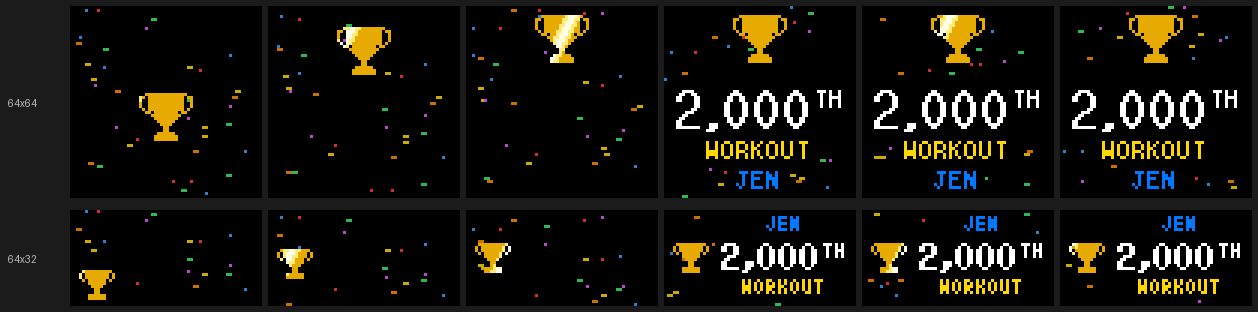
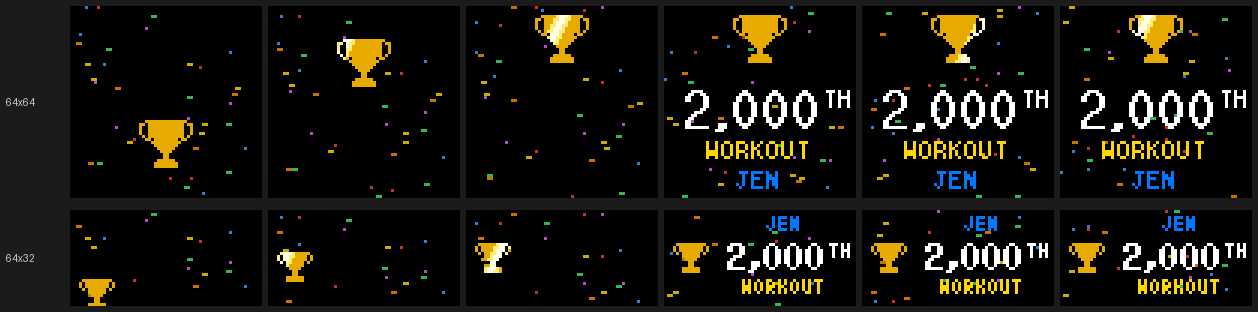
Celebration: long names on 64x32, centre 600TH on its digits, gold count
The 64x32 celebration left off a name too wide for the column beside the
trophy (a 14-letter Peloton username); it now spans the panel above it.
Numbers with a raised TH centre on the digits plus half the TH. The 64x32
countdown's count is gold. scripts/render_celebration.py redraws the
README's celebration screenshot.

diff --git a/tests/test_celebration.py b/tests/test_celebration.py
@@ -132,6 +132,16 @@ def test_number_always_fits_inside_the_panel(height, number):
         assert get_text_width(loaded_fonts['big'], ordinal(number)) <= 62
 
 
+@pytest.mark.parametrize('name', ['xxjclarksterxx', 'ABCDEFGHIJKLMNO'])
+def test_32_row_name_too_wide_beside_the_trophy_spans_the_panel_above_it(name):
+    # Regression: a Peloton username of 12-15 letters used to be left off on 32 rows.
+    image = _render(32, INTRO_SECONDS + 0.1, {**STATE, 'subtitle': name})
+    blue = _text_box(image, BLUE)
+    trophy_top = min(y for _, y in _lit(image, TROPHY_GOLD))
+    assert blue[0] >= 0 and blue[2] <= 63 and blue[3] < trophy_top
+    assert blue[3] < _text_box(image, WHITE)[1]
+
+
 @pytest.mark.parametrize('height', [32, 64])
 def test_a_name_too_long_to_fit_is_left_off(height):
     image = _render(height, INTRO_SECONDS + 0.1, {**STATE, 'subtitle': 'Christopher Longname-Smith'})
@@ -270,6 +280,37 @@ def test_ordinal_ending_is_small_and_raised_to_the_top_of_the_digits(height, num
     assert min(suffix_rows) == min(digit_rows) and max(suffix_rows) < max(digit_rows) - 2
 
 
+@pytest.mark.parametrize('height, number, left', [(64, 600, 0), (64, 2000, 0), (32, 600, TEXT_LEFT_32),
+                                                  (32, 21, TEXT_LEFT_32)])
+def test_the_number_is_centred_on_its_digits_plus_half_the_ending(height, number, left):
+    # Joel, 2026-11-14: centring 600TH as one piece set the digits off to the left, and centring the
+    # digits alone crowded the TH against the right edge.
+    from display.ui.celebration_screen import ordinal_line
+    initialize_fonts(height)
+    fonts = [loaded_fonts['big'], loaded_fonts['countdown']]
+    parts = ordinal_line(number, fonts, loaded_fonts['info'], 30, (1, 1, 1), left, 64)
+    digits_left = parts[0][1]
+    digits_right = max(x + get_text_width(font, text) for font, x, _, _, text in parts[:-1])
+    suffix_font, _, _, _, suffix = parts[-1]
+    centred_right = digits_right + (1 + get_text_width(suffix_font, suffix)) // 2
+    assert abs((digits_left + centred_right) - (left + 64)) <= 1
+
+
+@pytest.mark.parametrize('height, number, left', [(64, 2000, 0), (64, 10000, 0), (32, 2000, TEXT_LEFT_32),
+                                                  (32, 10000, TEXT_LEFT_32), (32, 123456, TEXT_LEFT_32)])
+def test_a_wide_number_moves_left_only_enough_to_keep_its_ending_on(height, number, left):
+    from display.ui.celebration_screen import ordinal_line
+    initialize_fonts(height)
+    fonts = [loaded_fonts['big'], loaded_fonts['countdown']]
+    parts = ordinal_line(number, fonts, loaded_fonts['info'], 30, (1, 1, 1), left, 64)
+    font, x, _, _, text = parts[-1]
+    end = x + get_text_width(font, text)
+    digits_right = max(px + get_text_width(f, s) for f, px, _, _, s in parts[:-1])
+    centred = abs((parts[0][1] + digits_right + (1 + get_text_width(font, text)) // 2) - (left + 64)) <= 1
+    assert parts[0][1] >= left and end <= 64
+    assert centred or end == 64 or parts[0][1] == left
+
+
 def test_ordinal_that_fits_no_font_is_left_off():
     from display.ui.celebration_screen import ordinal_line
     initialize_fonts(64)
@@ -315,3 +356,38 @@ def test_number_runs_leave_fonts_without_measurements_alone():
     assert _number_runs(font, '2,000') == ([(0, '2,000')], 25)
     initialize_fonts(64)
     assert _number_runs(loaded_fonts['big'], '600') == ([(0, '600')], 30)
+
+
+def test_render_celebration_draws_both_panel_sizes(tmp_path, capsys):
+    """The README's celebration screenshot: every frame on 64x64 above and 64x32 below, from the screen code."""
+    from PIL import Image
+
+    from scripts import render_celebration, render_logo
+    out = tmp_path / 'milestones.png'
+    render_celebration.main(['--out', str(out)])
+    sheet = Image.open(out).convert('RGB')
+    scale, gap, left = render_logo.SHEET_SCALE, render_logo.GAP, render_logo.LABEL_WIDTH
+    count = len(render_celebration.FRAME_SECONDS)
+    assert sheet.size == (left + count * (64 * scale + gap), gap + 64 * scale + gap * 2 + 32 * scale + gap)
+    top = gap
+    for height in (64, 32):
+        for index, seconds in enumerate(render_celebration.FRAME_SECONDS):
+            image = _render(height, seconds, render_celebration.STATE)
+            x = left + index * (64 * scale + gap)
+            panel = sheet.crop((x, top, x + 64 * scale, top + height * scale))
+            assert panel.tobytes() == image.resize(panel.size, Image.NEAREST).tobytes()
+        top += height * scale + gap * 2
+    assert 'Wrote' in capsys.readouterr().out
+
+
+def test_render_celebration_runs_from_the_command_line(tmp_path, monkeypatch, capsys):
+    """`python scripts/render_celebration.py` from anywhere: the script puts the repo on sys.path itself."""
+    import runpy
+    import sys
+    from pathlib import Path
+    root = str(Path(__file__).resolve().parents[1])
+    out = tmp_path / 'sheet.png'
+    monkeypatch.setattr(sys, 'path', [p for p in sys.path if p not in (root, '')])
+    monkeypatch.setattr(sys, 'argv', ['render_celebration.py', '--out', str(out)])
+    runpy.run_path(str(Path(root) / 'scripts' / 'render_celebration.py'), run_name='__main__')
+    assert out.exists() and 'Wrote' in capsys.readouterr().out

diff --git a/scripts/render_celebration.py b/scripts/render_celebration.py
@@ -1,0 +1,68 @@
+#!/usr/bin/env python3
+"""Render the README's milestone-celebration screenshot from the board's own drawing code, so it never drifts from it.
+
+  python scripts/render_celebration.py
+
+writes docs/screenshots/rotation/milestones.png: the celebration at each time in FRAME_SECONDS (the trophy
+rising, then the text), on a 64x64 panel (top row) and a 64x32 panel (bottom row), labelled like the README's
+other screenshots.
+"""
+import argparse
+import os
+import sys
+
+from PIL import Image, ImageDraw
+
+ROOT = os.path.dirname(os.path.dirname(os.path.abspath(__file__)))
+if ROOT not in sys.path:
+    sys.path.insert(0, ROOT)
+
+from display.display import initialize_fonts  # noqa: E402
+from display.ui.celebration_screen import CelebrationScreen  # noqa: E402
+from scripts.render_demo import ImageMatrix  # noqa: E402
+from scripts.render_logo import GAP, LABEL_WIDTH, SHEET_BACKGROUND, SHEET_SCALE  # noqa: E402
+
+STATE = {'number': 2000, 'noun': 'WORKOUT', 'subtitle': 'Jen'}
+# Three frames of the trophy rising through the confetti, then three of the card.
+FRAME_SECONDS = [0.1, 0.3, 0.5, 1.2, 2.4, 3.6]
+
+
+def panels(height, scale=SHEET_SCALE):
+    """The celebration at each of FRAME_SECONDS on a 64 x `height` panel, each pixel `scale` wide."""
+    initialize_fonts(height)
+    images = []
+    for seconds in FRAME_SECONDS:
+        matrix = ImageMatrix(64, height)
+        screen = CelebrationScreen()
+        screen.on_enter(matrix, STATE)
+        screen.update(seconds)
+        screen.render(matrix, STATE)
+        images.append(matrix.image.resize((64 * scale, height * scale), Image.NEAREST))
+    return images
+
+
+def sheet():
+    rows = [(f'64x{height}', panels(height)) for height in (64, 32)]
+    width = LABEL_WIDTH + len(FRAME_SECONDS) * (64 * SHEET_SCALE + GAP)
+    height = GAP + sum(images[0].height + GAP * 2 for _, images in rows) - GAP
+    image = Image.new('RGB', (width, height), SHEET_BACKGROUND)
+    draw = ImageDraw.Draw(image)
+    top = GAP
+    for label, images in rows:
+        for index, panel in enumerate(images):
+            image.paste(panel, (LABEL_WIDTH + index * (panel.width + GAP), top))
+        draw.text((GAP, top + images[0].height // 2 - 6), label, fill=(200, 200, 200))
+        top += images[0].height + GAP * 2
+    return image
+
+
+def main(argv=None):
+    parser = argparse.ArgumentParser(description=__doc__.split('\n')[0])
+    parser.add_argument('--out', default=os.path.join(ROOT, 'docs', 'screenshots', 'rotation', 'milestones.png'))
+    options = parser.parse_args(argv)
+    sheet().save(options.out)
+    print(f'Wrote {options.out}')
+
+
+if __name__ == '__main__':
+    main()

diff --git a/display/ui/celebration_screen.py b/display/ui/celebration_screen.py
@@ -186,7 +186,9 @@ def _number_runs(font, digits):
 
 
 def ordinal_line(number, digit_fonts, suffix_font, baseline, color, left, right):
-    """2,000 big with a small TH raised to the digits' top, like a superscript; centred as one piece.
+    """2,000 big with a small TH raised to the digits' top, like a superscript. Centred on the digits plus
+    half the TH (centring the two as one piece set the digits off to the left; centring the digits alone left
+    the TH crowding the right edge), moved left only as far as keeping the TH inside `right` needs.
     With a comma like the board's other totals, unless dropping it keeps the number in a bigger font
     (10000 on 64 columns). None when it fits in none of the digit fonts."""
     plain, suffix = str(number), ordinal(number)[len(str(number)):]
@@ -196,7 +198,8 @@ def ordinal_line(number, digit_fonts, suffix_font, baseline, color, left, right)
         runs, digits_width = _number_runs(font, digits)
         width = digits_width + 1 + suffix_width
         if width <= right - left - 1:
-            x = left + max((right - left - width) // 2, 0)
+            centred = digits_width + (1 + suffix_width) // 2
+            x = max(left, min(left + (right - left - centred) // 2, right - width))
             parts = [(font, x + dx, baseline, color, text) for dx, text in runs]
             if suffix_font:
                 raised = baseline - _cap_height(font) + _cap_height(suffix_font)
@@ -266,12 +269,16 @@ class CelebrationScreen(Screen):
 
     @staticmethod
     def _lines_32(matrix, big, noun, subtitle):
-        # The name goes on top, over the number, beside the trophy.
+        # The name goes on top, over the number, beside the trophy. The risen trophy starts below
+        # the name's row, so a name too wide for that column (a 14-letter Peloton username) is
+        # centred across the whole panel instead.
         w = matrix.width
         room = w - TEXT_LEFT_32 - 1
         info = [loaded_fonts.get('info')]
+        name = (_placed(_fit(subtitle, info, room), subtitle, 7, _BLUE, TEXT_LEFT_32, w)
+                or _placed(_fit(subtitle, info, w - 2), subtitle, 7, _BLUE, 0, w))
         lines = [
-            _placed(_fit(subtitle, info, room), subtitle, 7, _BLUE, TEXT_LEFT_32, w),
+            name,
             CelebrationScreen._big_line(big, [loaded_fonts.get('big'), loaded_fonts.get('countdown'),
                                               loaded_fonts.get('info')], loaded_fonts.get('info'),
                                         20, TEXT_LEFT_32, w),

diff --git a/tests/test_discipline_milestones.py b/tests/test_discipline_milestones.py
@@ -269,7 +269,8 @@ def test_discipline_countdown_reads_3_to_go_and_3_away_from(monkeypatch):
     drawn.clear()
     initialize_fonts(32)
     CountdownScreen().render(ImageMatrix(height=32), {**state, 'total': 1997, 'target': 2000})
-    # 32 rows: 3 AWAY FROM / YOUR 2,000TH / RIDE; the count cyan, the words white, the milestone gold.
+    # 32 rows: 3 AWAY FROM / YOUR 2,000TH / RIDE; the count and the milestone gold, the words white.
+    assert screen_count() == (255, 215, 0)
     assert drawn == [('3', screen_count()), ('AWAY', (255, 255, 255)), ('FROM', (255, 255, 255)),
                      ('YOUR', (255, 255, 255)), ('2', (255, 215, 0)), (',', (255, 215, 0)), ('000', (255, 215, 0)),
                      ('TH', (255, 215, 0)), ('RIDE', red)]
@@ -538,7 +539,7 @@ def test_the_32_row_lines_are_centred_and_your_floats_mid_number(target, left, n
         xs = [x for x, _ in cells]
         assert min(xs) - (63 - max(xs)) in (0, 1), (top, bottom)   # centred, an odd spare column to the left
     number_top, number_bottom = lines[1]
-    assert {y for _, y in lit(range(lines[0][0], lines[0][1] + 1), screen._COUNT)}   # the count is cyan
+    assert {y for _, y in lit(range(lines[0][0], lines[0][1] + 1), screen._COUNT)}   # the count is gold
     # YOUR (4x6, 5 px) has 2 rows of the 9 px digits above it and 2 below.
     your = {y for x, y in lit(range(number_top, number_bottom + 1), (255, 255, 255))}
     assert your == set(range(number_top + 2, number_bottom - 1))

diff --git a/display/ui/countdown_screen.py b/display/ui/countdown_screen.py
@@ -64,7 +64,7 @@ NAME_INK = {'ROW BOOTCAMP': (0, 56), 'BIKE BOOTCAMP': (2, 59), 'TREAD BOOTCAMP':
 LINE_TRAILING_BLANK = 1
 LEAD_DIGIT_BLANK = {'0': 1, '1': 1}
 LEAD_WORD_GAP = 3   # px added between the top line's words (the 5x8 space is wider than it needs)
-_COUNT = (0, 220, 255)   # 32 rows: the count is cyan, its own colour beside the gold milestone
+_COUNT = _GOLD   # 32 rows: the count is gold like the milestone (Joel, 2026-11-14: it was cyan)
 
 
 def _lit_centre_x(matrix, runs, lead_blank=0):
@@ -119,7 +119,7 @@ class CountdownScreen(Screen):
 
     @staticmethod
     def _render_short(matrix, left_to_go, target, name, color, bold):
-        """32 rows: 3 AWAY FROM / YOUR 600TH / RIDE, no bar. The top line in 5x8 (the count cyan, the words
+        """32 rows: 3 AWAY FROM / YOUR 600TH / RIDE, no bar. The top line in 5x8 (the count gold, the words
         white), then YOUR (4x6, white, floating mid-line: 2 rows either side) and the gold 7x13B number with its
         raised TH, then the name in 7x13B in its Lifetime colour. Lines on rows 3-8, 12-20, 23-31; a name in a
         smaller font (a bootcamp's 5x8, STRETCHING) closes up to 4-9, 12-20, 23-28 so the gaps match. Every line is centred by

diff --git a/docs/dev/ROTATION.md b/docs/dev/ROTATION.md
@@ -16,7 +16,7 @@ Screen times live in `peloton/screen_times.py` (import-free, so the settings ser
 
 ## Milestones and the countdown
 
-A reached milestone (`dashboard.pending_milestones`) is celebrated by `display/ui/celebration_screen.py` (`CelebrationScreen`: confetti and a rising trophy, then the number with a small raised ordinal ending (`_ordinal_line`; `_CAP_HEIGHTS` lines it up and `_COMMA_INK` closes up the comma in `2,000`, both measured once since the Pi's fonts can't be measured by drawing), or a headline / noun / subtitle, confetti drawn first so the trophy and text paint over it, every off pixel fair game; 20 fps via `frame_seconds`, which `show_and_wait` honours; `ordinal`; `milestone_noun` for the total, `discipline_noun` for a discipline's (a bootcamp keeps its own name, and `_noun_line` falls back to the last word, `BOOTCAMP`, where it doesn't fit)). `build_rotation_pages` puts it first, whatever the `milestones` section's place, and only one per pass: the newest pending total, or a discipline's (`pending_discipline_milestones`), taking turns by `pass_index` when several are due; `acknowledge_milestone` retires older pending ones and records the first showing in the cache's `milestone_shown_at`; it keeps showing until midnight that day (`goals.local_date` in `display.timezone`, else the profile's, else UTC), then moves to `celebrated_milestones`. Per-discipline milestones (`peloton/goals.py`: targets 25, 50, 100, then every 100, from Peloton's overview `totals`, not the workout log, so they match the Lifetime pages and need no backfill) are keyed `strength:500` and kept apart in `celebrated_discipline_milestones` / `discipline_milestone_shown_at`, so the old int-only `celebrated_milestones` check never sees a string; `acknowledge_milestone` takes either. The `next_milestone` section is one countdown for the total and every discipline (merged 2026-11-08 at Joel's request; there is no separate discipline section): `goals.upcoming_milestones` lists whatever is within `display.milestone_within` (5) of its target (the total's from `next_milestone`: configured `milestones`, else `milestone_step`), closest first (the total wins a tie), at most `milestone_pages` (3), so usually none. Each is a `countdown` page drawn by `display/ui/countdown_screen.py` (64 rows `3 TO GO / TILL YOUR / 600TH / RIDE` (baselines 16/25/42/54, bar at 58), and `NEXT ONE / IS YOUR / 600TH / RIDE` in the same places when one is left (4 lines since 2026-11-12, Joel's pick from 8 mock-ups; it was 3 with a squeezed `NEXT UP YOUR`), the celebration's `discipline_noun`, the total `WORKOUT`; 32 rows `3 AWAY FROM / YOUR 600TH / RIDE` (`CountdownScreen._render_short`: 5x8 top line with the count cyan, 4x6 `YOUR` floating mid-number, the name 7x13B, a smaller name closing the page up; every line centred by its lit pixels; layout and the largest-value checks in `docs/64x32-NOTES.md`); the name in `lifetime_overview.discipline_color`; `bold` 7x13B on 64 rows (the name too: `title_bold` 6x13B only for STRETCHING and MEDITATION, which don't fit in bold, since 6x13B squashed STRENGTH and WORKOUT); `celebration_screen.ordinal_line`). A discipline's celebration uses the same fixed `STEP_CELEBRATION_WINDOW` (10) as the total's step; the old `discipline_milestone_celebrate_within` setting was dropped 2026-11-08 (ignored if present; `settings_page.form.RETIRED_DISPLAY_KEYS` removes it on save). The settings page's Milestones card (`milestone-settings`, after Goals) holds `milestones`, `milestone_step`, `milestone_within`, `milestone_pages` and each rider's `milestones`; Goals keeps weekly goals, the streak reminder and each rider's name and goals. `render_rotation.PreviewDashboard` has no celebration history, so it only celebrates a total milestone crossed within that window (it used to show 2,000TH at 2,123). The demo data has Rowing at 22 and Running at 204 so `--demo` shows both a countdown and a celebration. `scripts/render_countdown.py` draws the README's countdown screenshot (its `PAGES` on 64x64 above 64x32) from `CountdownScreen`; redraw it after any countdown change. Until 2026-11-14 it was redrawn by hand and lost its 64x32 row.
+A reached milestone (`dashboard.pending_milestones`) is celebrated by `display/ui/celebration_screen.py` (`CelebrationScreen`: confetti and a rising trophy, then the number with a small raised ordinal ending (`_ordinal_line`; `_CAP_HEIGHTS` lines it up and `_COMMA_INK` closes up the comma in `2,000`, both measured once since the Pi's fonts can't be measured by drawing), or a headline / noun / subtitle, confetti drawn first so the trophy and text paint over it, every off pixel fair game; 20 fps via `frame_seconds`, which `show_and_wait` honours; `ordinal`; `milestone_noun` for the total, `discipline_noun` for a discipline's (a bootcamp keeps its own name, and `_noun_line` falls back to the last word, `BOOTCAMP`, where it doesn't fit)). `build_rotation_pages` puts it first, whatever the `milestones` section's place, and only one per pass: the newest pending total, or a discipline's (`pending_discipline_milestones`), taking turns by `pass_index` when several are due; `acknowledge_milestone` retires older pending ones and records the first showing in the cache's `milestone_shown_at`; it keeps showing until midnight that day (`goals.local_date` in `display.timezone`, else the profile's, else UTC), then moves to `celebrated_milestones`. Per-discipline milestones (`peloton/goals.py`: targets 25, 50, 100, then every 100, from Peloton's overview `totals`, not the workout log, so they match the Lifetime pages and need no backfill) are keyed `strength:500` and kept apart in `celebrated_discipline_milestones` / `discipline_milestone_shown_at`, so the old int-only `celebrated_milestones` check never sees a string; `acknowledge_milestone` takes either. The `next_milestone` section is one countdown for the total and every discipline (merged 2026-11-08 at Joel's request; there is no separate discipline section): `goals.upcoming_milestones` lists whatever is within `display.milestone_within` (5) of its target (the total's from `next_milestone`: configured `milestones`, else `milestone_step`), closest first (the total wins a tie), at most `milestone_pages` (3), so usually none. Each is a `countdown` page drawn by `display/ui/countdown_screen.py` (64 rows `3 TO GO / TILL YOUR / 600TH / RIDE` (baselines 16/25/42/54, bar at 58), and `NEXT ONE / IS YOUR / 600TH / RIDE` in the same places when one is left (4 lines since 2026-11-12, Joel's pick from 8 mock-ups; it was 3 with a squeezed `NEXT UP YOUR`), the celebration's `discipline_noun`, the total `WORKOUT`; 32 rows `3 AWAY FROM / YOUR 600TH / RIDE` (`CountdownScreen._render_short`: 5x8 top line with the count gold (cyan until 2026-11-14), 4x6 `YOUR` floating mid-number, the name 7x13B, a smaller name closing the page up; every line centred by its lit pixels; layout and the largest-value checks in `docs/64x32-NOTES.md`); the name in `lifetime_overview.discipline_color`; `bold` 7x13B on 64 rows (the name too: `title_bold` 6x13B only for STRETCHING and MEDITATION, which don't fit in bold, since 6x13B squashed STRENGTH and WORKOUT); `celebration_screen.ordinal_line`, which centres the digits plus half the `TH`, moving left only as far as keeping the `TH` on the panel needs (Joel, 2026-11-14: centring `600TH` as one piece set the digits off to the left, and the digits alone crowded the `TH` against the edge); the 64x32 countdown centres `YOUR 600TH` itself, so that line is unchanged). `scripts/render_celebration.py` draws the README's celebration screenshot (`FRAME_SECONDS` on 64x64 above 64x32); until 2026-11-14 it was drawn by hand. A discipline's celebration uses the same fixed `STEP_CELEBRATION_WINDOW` (10) as the total's step; the old `discipline_milestone_celebrate_within` setting was dropped 2026-11-08 (ignored if present; `settings_page.form.RETIRED_DISPLAY_KEYS` removes it on save). The settings page's Milestones card (`milestone-settings`, after Goals) holds `milestones`, `milestone_step`, `milestone_within`, `milestone_pages` and each rider's `milestones`; Goals keeps weekly goals, the streak reminder and each rider's name and goals. `render_rotation.PreviewDashboard` has no celebration history, so it only celebrates a total milestone crossed within that window (it used to show 2,000TH at 2,123). The demo data has Rowing at 22 and Running at 204 so `--demo` shows both a countdown and a celebration. `scripts/render_countdown.py` draws the README's countdown screenshot (its `PAGES` on 64x64 above 64x32) from `CountdownScreen`; redraw it after any countdown change. Until 2026-11-14 it was redrawn by hand and lost its 64x32 row.
 
 ## PR celebration
 

diff --git a/README.md b/README.md
@@ -244,7 +244,7 @@ A full-size page with your lifetime workout count: the title in `color`, the num
 
 ![Next milestone countdown](docs/screenshots/rotation/next-milestone.png)
 
-A countdown in big type when you're close to a milestone: how many to go (`3 TO GO`, then a small `TILL YOUR`; with one left, `NEXT ONE` then `IS YOUR` instead), the milestone in gold with a raised ending (`2,200TH`), and what it counts (`WORKOUT`, or the discipline's noun in its colour from the `lifetime` page: `RIDE`, `RUN`, `WALK`, `ROW`, else its name), over a progress bar from the previous milestone. On 64x32 it reads `3 AWAY FROM / YOUR 2,200TH / WORKOUT`, with no bar: the count in cyan, the words in white, the milestone in gold and the name in its colour, the same nouns as 64x64. A bootcamp's name is drawn as on 64x64 and its page closes up around it. `python scripts/render_countdown.py` redraws this screenshot from the screen code.
+A countdown in big type when you're close to a milestone: how many to go (`3 TO GO`, then a small `TILL YOUR`; with one left, `NEXT ONE` then `IS YOUR` instead), the milestone in gold with a raised ending (`2,200TH`), and what it counts (`WORKOUT`, or the discipline's noun in its colour from the `lifetime` page: `RIDE`, `RUN`, `WALK`, `ROW`, else its name), over a progress bar from the previous milestone. On 64x32 it reads `3 AWAY FROM / YOUR 2,200TH / WORKOUT`, with no bar: the count and the milestone in gold, the words in white and the name in its colour, the same nouns as 64x64. A bootcamp's name is drawn as on 64x64 and its page closes up around it. `python scripts/render_countdown.py` redraws this screenshot from the screen code.
 
 Your total and each discipline follow the same rule: a page appears only when it's 5 or fewer workouts away (`milestone_within`), closest first and at most 3 pages (`milestone_pages`), so most of the time this section shows nothing. Your total's milestone is the next value in `milestones` above it, else the next multiple of `milestone_step` (default `100`). A discipline's are picked automatically: 25, 50, 100, then every 100. Discipline counts are Peloton's own per-discipline totals, the ones on the `lifetime` pages, so Bike, Tread and Row Bootcamp count separately from rides, runs and rows. Options: `screen_durations.next_milestone` / `overview_duration`, per page.
 
@@ -290,7 +290,7 @@ To count only some of them, add `"disciplines"` with the names from the left col
 
 ![Milestone celebration](docs/screenshots/rotation/milestones.png)
 
-A gold trophy rises through falling confetti, then the milestone (`2,000` with a small raised `TH`), `WORKOUT` and the rider's name appear under it (on 64x32, beside it, with the name on top), when your lifetime total reaches a value in `milestones` (e.g. `[100, 250, 500, 1000]`). It also appears for a multiple of `milestone_step`, but only if you crossed it within your last 10 workouts, so turning the feature on doesn't celebrate something you passed years ago. It opens the rider's rotation (after the logo) wherever `milestones` sits in `rotation`, and keeps doing so for the rest of the day it first shows (until midnight in `timezone`, else the rider's Peloton time zone), so a rider who missed that cycle still sees it. If the board is off when you reach it, its day starts when the board next shows it. Only the newest milestone is celebrated: reaching several at once (e.g. setting `[100, 250, 500]` at 600 workouts) shows just 500. The page lasts its `screen_durations.milestones` / `overview_duration`, but at least 5.8 seconds (0.8 s for the trophy to rise, then the text). Celebrated milestones are saved in the dashboard cache. `milestones` can be set per rider under `users[]`.
+A gold trophy rises through falling confetti, then the milestone (`2,000` with a small raised `TH`), `WORKOUT` and the rider's name appear under it (on 64x32, beside it, with the name on top), when your lifetime total reaches a value in `milestones` (e.g. `[100, 250, 500, 1000]`). It also appears for a multiple of `milestone_step`, but only if you crossed it within your last 10 workouts, so turning the feature on doesn't celebrate something you passed years ago. It opens the rider's rotation (after the logo) wherever `milestones` sits in `rotation`, and keeps doing so for the rest of the day it first shows (until midnight in `timezone`, else the rider's Peloton time zone), so a rider who missed that cycle still sees it. If the board is off when you reach it, its day starts when the board next shows it. Only the newest milestone is celebrated: reaching several at once (e.g. setting `[100, 250, 500]` at 600 workouts) shows just 500. The page lasts its `screen_durations.milestones` / `overview_duration`, but at least 5.8 seconds (0.8 s for the trophy to rise, then the text). Celebrated milestones are saved in the dashboard cache. `python scripts/render_celebration.py` redraws this screenshot from the screen code. `milestones` can be set per rider under `users[]`.
 
 Each discipline's round numbers (25, 50, 100, then every 100, as on the `next_milestone` page) are celebrated too, with no setup: `200TH WALK`, `600TH RIDE`, `500TH STRENGTH`. Like `milestone_step`, only one crossed within that discipline's last 10 workouts counts, so one you passed long ago isn't celebrated. (An older `discipline_milestone_celebrate_within` setting is ignored.) When more than one celebration is due on the same day (say 2,100 workouts and a 500th strength class), they take turns, one per pass through the rotation.
 
@@ -517,7 +517,7 @@ Live mode cycles through every completed workout on the latest active day. Every
 - `driver/`: hardware/emulator selection
 - `utils/`: matrix settings, health heartbeat, Wi-Fi setup state
 - `scripts/refresh_cookies.py`: browser login, refresh-token renewal, board seeding, and verified token saving
-- `scripts/render_rotation.py`, `render_demo.py`: screen previews (PNG contact sheets); `render_logo.py`, `render_countdown.py`: redraw the README's logo and next-milestone screenshots
+- `scripts/render_rotation.py`, `render_demo.py`: screen previews (PNG contact sheets); `render_logo.py`, `render_countdown.py`, `render_celebration.py`: redraw the README's logo, next-milestone and milestone-celebration screenshots
 - `scripts/list_facts.py`, `workout_insights.py`: checking name-page facts and insights against a real log
 
 ## Architecture

diff --git a/docs/64x32-NOTES.md b/docs/64x32-NOTES.md
@@ -112,7 +112,11 @@ its right: the name on top (4x6), the number (7x13B) with a raised `TH`
 board's other totals, except when dropping it keeps the big font: five
 digits (`10000`) don't fit it with one on either size. The fonts give the
 comma a whole digit-wide cell, which left a wide gap either side of it, so
-it's drawn closed up, with the same gap as between digits (`_COMMA_INK`). A name too long for its line is left off.
+it's drawn closed up, with the same gap as between digits (`_COMMA_INK`). The name's
+column holds 11 characters, but the board shows the Peloton username (`xxjclarksterxx` is 14), which
+used to be left off; the risen trophy starts below the name's row, so a name too wide for the column
+is centred across the whole panel instead (2026-11-14). The number is centred on its digits plus half the `TH` (as on 64x64), moved
+left only when the `TH` would run off the panel. Only a name wider than 64 columns is left off.
 
 ### Next milestone (done)
 The `next_milestone` page (`CountdownScreen`; the total's or a discipline's) stacks
@@ -125,8 +129,8 @@ names didn't read as a sentence: `TO 600 CYCLING`). The nouns are 64x64's
 (`RIDE`, `WORKOUT`, the discipline's name where it has no word of its own).
 - `3 AWAY FROM`: 5x8, every word the same size (Joel: a big `3 AWAY` beside a
   small `FROM` looked inconsistent; all 7x13B only fit with 2 px between words,
-  edge to edge), 3 px added between words (`LEAD_WORD_GAP`). The count is cyan
-  (`_COUNT`), its own colour beside the gold milestone; the words are white.
+  edge to edge), 3 px added between words (`LEAD_WORD_GAP`). The count is gold
+  (`_COUNT`) like the milestone (cyan until 2026-11-14; Joel preferred gold); the words are white.
 - `YOUR 500TH`: `YOUR` is 4x6, white, floating mid-number: its 5 px capitals have
   2 rows of the 9 px 7x13B digits above and 2 below (6x9's 6 px couldn't centre:
   an odd 3 rows). The number is gold with a raised `TH` (`ordinal_line`); where
